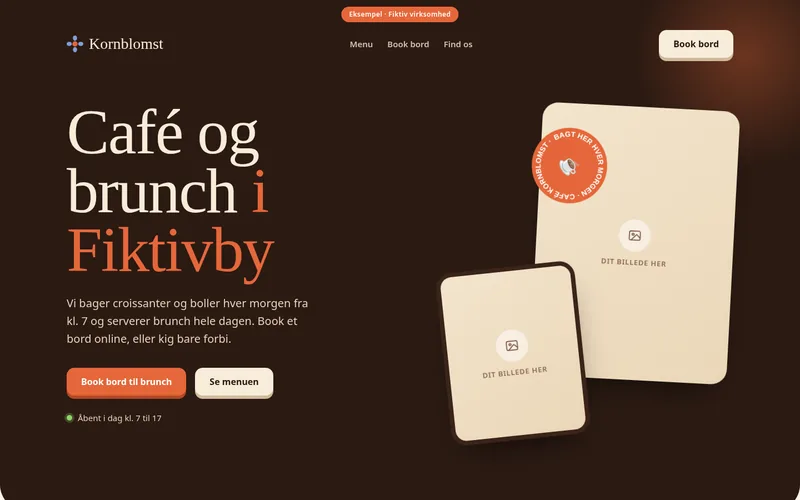
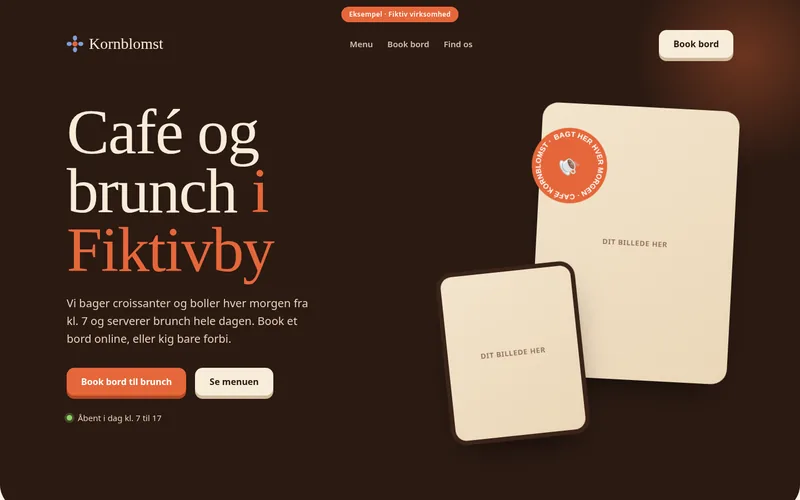
Spejl: kun tekst i pladsholdere, centreret label

Changed region(s): [[0.75, 0.42, 0.8438, 0.54], [0.5938, 0.66, 0.6875, 0.75]]

diff --git a/demoer/fysio/index.html b/demoer/fysio/index.html
@@ -22,7 +22,7 @@ html{scroll-behavior:smooth}
 body{background:var(--bg);color:var(--ink);font:17px/1.6 var(--sans);overflow-x:hidden}
 a{color:inherit}img{display:block;max-width:100%}
 .wrap{width:min(1180px,100% - 40px);margin:0 auto}
-.demo-flag{position:fixed;top:12px;left:50%;transform:translateX(-50%);z-index:60;background:rgba(15,43,38,.88);color:#fff;font:600 12px/1 system-ui,sans-serif;letter-spacing:.04em;padding:8px 14px;border-radius:99px;white-space:nowrap}
+.demo-flag{position:absolute;top:12px;left:50%;transform:translateX(-50%);z-index:60;background:rgba(15,43,38,.88);color:#fff;font:600 12px/1 system-ui,sans-serif;letter-spacing:.04em;padding:8px 14px;border-radius:99px;white-space:nowrap}
 .ed-banner{position:fixed;left:50%;bottom:14px;transform:translateX(-50%);z-index:60;display:flex;align-items:center;gap:12px;background:#16181a;color:#fff;font:400 14px/1.3 system-ui,sans-serif;padding:10px 10px 10px 18px;border-radius:99px;box-shadow:0 14px 40px -12px rgba(0,0,0,.45);width:max-content;max-width:calc(100% - 24px)}
 .ed-banner b{font-weight:600}.ed-banner b i{font-style:normal;color:#ff8a5c}
 .ed-banner a{background:#d4420f;color:#fff;text-decoration:none;padding:8px 14px;border-radius:99px;white-space:nowrap;font-weight:500}
@@ -122,9 +122,7 @@ footer .wrap{display:flex;justify-content:space-between;gap:16px;flex-wrap:wrap}
 
 /* billedpladsholdere: kunden leverer egne billeder */
 .ph{position:relative;display:flex;flex-direction:column;align-items:center;justify-content:center;gap:12px;width:100%;aspect-ratio:var(--ar,3/2);background:linear-gradient(145deg,#e3f0ea,#d3e7de);color:#16604f;text-align:center;overflow:hidden}
-.ph i{display:grid;place-items:center;width:58px;height:58px;border-radius:50%;background:rgba(255,255,255,.6)}
-.ph svg{width:26px;height:26px}
-.ph span{font:600 13px/1.2 var(--sans);letter-spacing:.06em;text-transform:uppercase;opacity:.85}
+.ph span{font:600 13px/1.2 var(--sans);letter-spacing:.06em;padding-left:.06em;text-transform:uppercase;opacity:.85}
 </style>
 <script>document.documentElement.classList.add('js')</script>
 </head>
@@ -147,7 +145,7 @@ footer .wrap{display:flex;justify-content:space-between;gap:16px;flex-wrap:wrap}
    <ul class="checks"><li>Ingen henvisning nødvendig</li><li>Tid inden for få dage</li><li>Aftensåbent</li></ul>
   </div>
   <div class="hero-col">
-   <div class="hero-img"><div class="ph" role="img" aria-label="Pladsholder til billede" style="--ar:1600/1067"><i><svg viewBox="0 0 24 24" fill="none" stroke="currentColor" stroke-width="1.6" stroke-linecap="round" stroke-linejoin="round" aria-hidden="true"><rect x="3" y="4.5" width="18" height="15" rx="2.5"/><circle cx="9" cy="10" r="1.7"/><path d="M20.5 15.5l-4.6-4.6a1.2 1.2 0 0 0-1.7 0L6.5 19"/></svg></i><span>Dit billede her</span></div></div>
+   <div class="hero-img"><div class="ph" role="img" aria-label="Pladsholder til billede" style="--ar:1600/1067"><span>Dit billede her</span></div></div>
    <div class="float f2 rv d2"><span class="ic">📅</span><div><b>Book online</b>Døgnet rundt</div></div>
    <div class="float f1 rv d3"><span class="ic">💬</span><div><b>Gratis telefonsnak</b>Er fysioterapi noget for dig?</div></div>
   </div>
@@ -174,14 +172,14 @@ footer .wrap{display:flex;justify-content:space-between;gap:16px;flex-wrap:wrap}
   <h2 class="rv">Sådan foregår dit forløb</h2>
   <div class="story">
    <div class="sticky" aria-hidden="true">
-    <div class="ph on" role="img" aria-label="Pladsholder til billede" style="--ar:1000/667"><i><svg viewBox="0 0 24 24" fill="none" stroke="currentColor" stroke-width="1.6" stroke-linecap="round" stroke-linejoin="round" aria-hidden="true"><rect x="3" y="4.5" width="18" height="15" rx="2.5"/><circle cx="9" cy="10" r="1.7"/><path d="M20.5 15.5l-4.6-4.6a1.2 1.2 0 0 0-1.7 0L6.5 19"/></svg></i><span>Dit billede her</span></div>
-    <div class="ph" role="img" aria-label="Pladsholder til billede" style="--ar:1000/667"><i><svg viewBox="0 0 24 24" fill="none" stroke="currentColor" stroke-width="1.6" stroke-linecap="round" stroke-linejoin="round" aria-hidden="true"><rect x="3" y="4.5" width="18" height="15" rx="2.5"/><circle cx="9" cy="10" r="1.7"/><path d="M20.5 15.5l-4.6-4.6a1.2 1.2 0 0 0-1.7 0L6.5 19"/></svg></i><span>Dit billede her</span></div>
-    <div class="ph" role="img" aria-label="Pladsholder til billede" style="--ar:900/1349"><i><svg viewBox="0 0 24 24" fill="none" stroke="currentColor" stroke-width="1.6" stroke-linecap="round" stroke-linejoin="round" aria-hidden="true"><rect x="3" y="4.5" width="18" height="15" rx="2.5"/><circle cx="9" cy="10" r="1.7"/><path d="M20.5 15.5l-4.6-4.6a1.2 1.2 0 0 0-1.7 0L6.5 19"/></svg></i><span>Dit billede her</span></div>
+    <div class="ph on" role="img" aria-label="Pladsholder til billede" style="--ar:1000/667"><span>Dit billede her</span></div>
+    <div class="ph" role="img" aria-label="Pladsholder til billede" style="--ar:1000/667"><span>Dit billede her</span></div>
+    <div class="ph" role="img" aria-label="Pladsholder til billede" style="--ar:900/1349"><span>Dit billede her</span></div>
    </div>
    <div class="steps">
-    <div class="step on" data-i="0"><div class="ph m-img" role="img" aria-label="Pladsholder til billede" style="--ar:1000/667"><i><svg viewBox="0 0 24 24" fill="none" stroke="currentColor" stroke-width="1.6" stroke-linecap="round" stroke-linejoin="round" aria-hidden="true"><rect x="3" y="4.5" width="18" height="15" rx="2.5"/><circle cx="9" cy="10" r="1.7"/><path d="M20.5 15.5l-4.6-4.6a1.2 1.2 0 0 0-1.7 0L6.5 19"/></svg></i><span>Dit billede her</span></div><span class="n">01 · Undersøgelse</span><h3>Første konsultation</h3><p>Første gang bruger vi en time på at snakke, undersøge dig og forklare, hvad vi finder.</p></div>
-    <div class="step" data-i="1"><div class="ph m-img" role="img" aria-label="Pladsholder til billede" style="--ar:1000/667"><i><svg viewBox="0 0 24 24" fill="none" stroke="currentColor" stroke-width="1.6" stroke-linecap="round" stroke-linejoin="round" aria-hidden="true"><rect x="3" y="4.5" width="18" height="15" rx="2.5"/><circle cx="9" cy="10" r="1.7"/><path d="M20.5 15.5l-4.6-4.6a1.2 1.2 0 0 0-1.7 0L6.5 19"/></svg></i><span>Dit billede her</span></div><span class="n">02 · Behandling</span><h3>Behandling og øvelser</h3><p>Vi lægger en plan sammen med dig og kombinerer behandling på klinikken med øvelser. Planen justerer vi undervejs.</p></div>
-    <div class="step" data-i="2"><div class="ph m-img" role="img" aria-label="Pladsholder til billede" style="--ar:900/1349"><i><svg viewBox="0 0 24 24" fill="none" stroke="currentColor" stroke-width="1.6" stroke-linecap="round" stroke-linejoin="round" aria-hidden="true"><rect x="3" y="4.5" width="18" height="15" rx="2.5"/><circle cx="9" cy="10" r="1.7"/><path d="M20.5 15.5l-4.6-4.6a1.2 1.2 0 0 0-1.7 0L6.5 19"/></svg></i><span>Dit billede her</span></div><span class="n">03 · Træning hjemme</span><h3>Øvelser til derhjemme</h3><p>Du får et øvelsesprogram i en app, så du kan træne videre derhjemme, når forløbet er slut.</p></div>
+    <div class="step on" data-i="0"><div class="ph m-img" role="img" aria-label="Pladsholder til billede" style="--ar:1000/667"><span>Dit billede her</span></div><span class="n">01 · Undersøgelse</span><h3>Første konsultation</h3><p>Første gang bruger vi en time på at snakke, undersøge dig og forklare, hvad vi finder.</p></div>
+    <div class="step" data-i="1"><div class="ph m-img" role="img" aria-label="Pladsholder til billede" style="--ar:1000/667"><span>Dit billede her</span></div><span class="n">02 · Behandling</span><h3>Behandling og øvelser</h3><p>Vi lægger en plan sammen med dig og kombinerer behandling på klinikken med øvelser. Planen justerer vi undervejs.</p></div>
+    <div class="step" data-i="2"><div class="ph m-img" role="img" aria-label="Pladsholder til billede" style="--ar:900/1349"><span>Dit billede her</span></div><span class="n">03 · Træning hjemme</span><h3>Øvelser til derhjemme</h3><p>Du får et øvelsesprogram i en app, så du kan træne videre derhjemme, når forløbet er slut.</p></div>
    </div>
   </div>
  </section>

diff --git a/demoer/frisor/index.html b/demoer/frisor/index.html
@@ -24,7 +24,7 @@ a{color:inherit}
 img{display:block;max-width:100%}
 .wrap{width:min(1180px,100% - 40px);margin:0 auto}
 /* demo-mærkat */
-.demo-flag{position:fixed;top:12px;left:50%;transform:translateX(-50%);z-index:60;background:rgba(42,28,24,.86);color:#fff;font:500 12px/1 var(--sans);letter-spacing:.04em;padding:8px 14px;border-radius:99px;backdrop-filter:blur(6px);white-space:nowrap}
+.demo-flag{position:absolute;top:12px;left:50%;transform:translateX(-50%);z-index:60;background:rgba(42,28,24,.86);color:#fff;font:500 12px/1 var(--sans);letter-spacing:.04em;padding:8px 14px;border-radius:99px;backdrop-filter:blur(6px);white-space:nowrap}
 .ed-banner{position:fixed;left:50%;bottom:14px;transform:translateX(-50%);z-index:60;display:flex;align-items:center;gap:12px;background:#16181a;color:#fff;font:400 14px/1.3 system-ui,sans-serif;padding:10px 10px 10px 18px;border-radius:99px;box-shadow:0 14px 40px -12px rgba(0,0,0,.45);width:max-content;max-width:calc(100% - 24px)}
 .ed-banner b{font-weight:600}.ed-banner b i{font-style:normal;color:#ff8a5c}
 .ed-banner a{background:#d4420f;color:#fff;text-decoration:none;padding:8px 14px;border-radius:99px;white-space:nowrap;font-weight:500}
@@ -145,10 +145,8 @@ footer .wrap{display:flex;justify-content:space-between;flex-wrap:wrap;gap:16px}
 
 /* billedpladsholdere: kunden leverer egne billeder */
 .ph{position:relative;display:flex;flex-direction:column;align-items:center;justify-content:center;gap:12px;width:100%;aspect-ratio:var(--ar,3/2);background:linear-gradient(145deg,#efe3d8,#e6d5c6);color:#8f5640;text-align:center;overflow:hidden}
-.ph i{display:grid;place-items:center;width:58px;height:58px;border-radius:50%;background:rgba(255,255,255,.55)}
-.ph svg{width:26px;height:26px}
-.ph span{font:600 13px/1.2 var(--sans);letter-spacing:.06em;text-transform:uppercase;opacity:.85}
-.zoom .ph{background:linear-gradient(145deg,#c99c86,#a46e57);color:#fff8f2;justify-content:flex-start;padding-top:12vh}.zoom .ph i{background:rgba(255,255,255,.18)}
+.ph span{font:600 13px/1.2 var(--sans);letter-spacing:.06em;padding-left:.06em;text-transform:uppercase;opacity:.85}
+.zoom .ph{background:linear-gradient(145deg,#c99c86,#a46e57);color:#fff8f2}
 </style>
 <script>document.documentElement.classList.add('js')</script>
 </head>
@@ -173,7 +171,7 @@ footer .wrap{display:flex;justify-content:space-between;flex-wrap:wrap;gap:16px}
    <p class="note">Book online · Gratis konsultation før farve</p>
   </div>
   <div class="hero-col">
-   <div class="hero-img"><div class="ph" role="img" aria-label="Pladsholder til billede" style="--ar:1100/1650" data-parallax="0.12"><i><svg viewBox="0 0 24 24" fill="none" stroke="currentColor" stroke-width="1.6" stroke-linecap="round" stroke-linejoin="round" aria-hidden="true"><rect x="3" y="4.5" width="18" height="15" rx="2.5"/><circle cx="9" cy="10" r="1.7"/><path d="M20.5 15.5l-4.6-4.6a1.2 1.2 0 0 0-1.7 0L6.5 19"/></svg></i><span>Dit billede her</span></div></div>
+   <div class="hero-img"><div class="ph" role="img" aria-label="Pladsholder til billede" style="--ar:1100/1650" data-parallax="0.12"><span>Dit billede her</span></div></div>
    <div class="hero-badge rv d2"><strong>Ledige tider i dag</strong>Se dem direkte i kalenderen</div>
   </div>
  </section>
@@ -188,13 +186,13 @@ footer .wrap{display:flex;justify-content:space-between;flex-wrap:wrap;gap:16px}
   </div>
  </section>
 
- <figure class="zoom"><div class="ph" role="img" aria-label="Pladsholder til billede" style="--ar:1400/914"><i><svg viewBox="0 0 24 24" fill="none" stroke="currentColor" stroke-width="1.6" stroke-linecap="round" stroke-linejoin="round" aria-hidden="true"><rect x="3" y="4.5" width="18" height="15" rx="2.5"/><circle cx="9" cy="10" r="1.7"/><path d="M20.5 15.5l-4.6-4.6a1.2 1.2 0 0 0-1.7 0L6.5 19"/></svg></i><span>Dit billede her</span></div><figcaption>Vores salon på Eksempelvej 12</figcaption></figure>
+ <figure class="zoom"><div class="ph" role="img" aria-label="Pladsholder til billede" style="--ar:1400/914"><span>Dit billede her</span></div><figcaption>Vores salon på Eksempelvej 12</figcaption></figure>
 
  <section id="ydelser" class="wrap svc">
   <div class="stick">
    <h2 class="rv">Behandlinger &amp; priser</h2>
    <p class="rv d1">Faste priser, ingen skjulte tillæg. Usikker på hvad du skal vælge? Book en gratis konsultation, så finder vi ud af det sammen.</p>
-   <figure class="rv d2"><div class="ph" role="img" aria-label="Pladsholder til billede" style="--ar:900/1350"><i><svg viewBox="0 0 24 24" fill="none" stroke="currentColor" stroke-width="1.6" stroke-linecap="round" stroke-linejoin="round" aria-hidden="true"><rect x="3" y="4.5" width="18" height="15" rx="2.5"/><circle cx="9" cy="10" r="1.7"/><path d="M20.5 15.5l-4.6-4.6a1.2 1.2 0 0 0-1.7 0L6.5 19"/></svg></i><span>Dit billede her</span></div></figure>
+   <figure class="rv d2"><div class="ph" role="img" aria-label="Pladsholder til billede" style="--ar:900/1350"><span>Dit billede her</span></div></figure>
   </div>
   <div>
    <div class="menu-group rv">
@@ -230,11 +228,11 @@ footer .wrap{display:flex;justify-content:space-between;flex-wrap:wrap;gap:16px}
  <section id="galleri" class="gallery">
   <div class="wrap"><h2 class="rv">Billeder fra salonen</h2></div>
   <div class="track" data-track>
-   <figure><div class="ph" role="img" aria-label="Pladsholder til billede" style="--ar:900/1350"><i><svg viewBox="0 0 24 24" fill="none" stroke="currentColor" stroke-width="1.6" stroke-linecap="round" stroke-linejoin="round" aria-hidden="true"><rect x="3" y="4.5" width="18" height="15" rx="2.5"/><circle cx="9" cy="10" r="1.7"/><path d="M20.5 15.5l-4.6-4.6a1.2 1.2 0 0 0-1.7 0L6.5 19"/></svg></i><span>Dit billede her</span></div></figure>
-   <figure class="wide"><div class="ph" role="img" aria-label="Pladsholder til billede" style="--ar:1200/669"><i><svg viewBox="0 0 24 24" fill="none" stroke="currentColor" stroke-width="1.6" stroke-linecap="round" stroke-linejoin="round" aria-hidden="true"><rect x="3" y="4.5" width="18" height="15" rx="2.5"/><circle cx="9" cy="10" r="1.7"/><path d="M20.5 15.5l-4.6-4.6a1.2 1.2 0 0 0-1.7 0L6.5 19"/></svg></i><span>Dit billede her</span></div></figure>
+   <figure><div class="ph" role="img" aria-label="Pladsholder til billede" style="--ar:900/1350"><span>Dit billede her</span></div></figure>
+   <figure class="wide"><div class="ph" role="img" aria-label="Pladsholder til billede" style="--ar:1200/669"><span>Dit billede her</span></div></figure>
    <figure class="txt"><p>Vi glæder os til at se dig i salonen.</p></figure>
-   <figure><div class="ph" role="img" aria-label="Pladsholder til billede" style="--ar:900/1350"><i><svg viewBox="0 0 24 24" fill="none" stroke="currentColor" stroke-width="1.6" stroke-linecap="round" stroke-linejoin="round" aria-hidden="true"><rect x="3" y="4.5" width="18" height="15" rx="2.5"/><circle cx="9" cy="10" r="1.7"/><path d="M20.5 15.5l-4.6-4.6a1.2 1.2 0 0 0-1.7 0L6.5 19"/></svg></i><span>Dit billede her</span></div></figure>
-   <figure class="wide"><div class="ph" role="img" aria-label="Pladsholder til billede" style="--ar:1400/914"><i><svg viewBox="0 0 24 24" fill="none" stroke="currentColor" stroke-width="1.6" stroke-linecap="round" stroke-linejoin="round" aria-hidden="true"><rect x="3" y="4.5" width="18" height="15" rx="2.5"/><circle cx="9" cy="10" r="1.7"/><path d="M20.5 15.5l-4.6-4.6a1.2 1.2 0 0 0-1.7 0L6.5 19"/></svg></i><span>Dit billede her</span></div></figure>
+   <figure><div class="ph" role="img" aria-label="Pladsholder til billede" style="--ar:900/1350"><span>Dit billede her</span></div></figure>
+   <figure class="wide"><div class="ph" role="img" aria-label="Pladsholder til billede" style="--ar:1400/914"><span>Dit billede her</span></div></figure>
   </div>
  </section>
 

diff --git a/demoer/tomrer/index.html b/demoer/tomrer/index.html
@@ -22,7 +22,7 @@ html{scroll-behavior:smooth}
 body{background:var(--paper);color:var(--ink);font:17px/1.55 var(--sans);overflow-x:hidden}
 a{color:inherit}img{display:block;max-width:100%}
 .wrap{width:min(1240px,100% - 40px);margin:0 auto}
-.demo-flag{position:fixed;top:12px;left:50%;transform:translateX(-50%);z-index:60;background:rgba(27,29,31,.9);color:#fff;font:600 12px/1 system-ui,sans-serif;letter-spacing:.04em;padding:8px 14px;border-radius:99px;white-space:nowrap}
+.demo-flag{position:absolute;top:12px;left:50%;transform:translateX(-50%);z-index:60;background:rgba(27,29,31,.9);color:#fff;font:600 12px/1 system-ui,sans-serif;letter-spacing:.04em;padding:8px 14px;border-radius:99px;white-space:nowrap}
 .ed-banner{position:fixed;left:50%;bottom:14px;transform:translateX(-50%);z-index:60;display:flex;align-items:center;gap:12px;background:#16181a;color:#fff;font:400 14px/1.3 system-ui,sans-serif;padding:10px 10px 10px 18px;border-radius:99px;box-shadow:0 14px 40px -12px rgba(0,0,0,.45);width:max-content;max-width:calc(100% - 24px);border:1px solid rgba(255,255,255,.12)}
 .ed-banner b{font-weight:600}.ed-banner b i{font-style:normal;color:#ff8a5c}
 .ed-banner a{background:#d4420f;color:#fff;text-decoration:none;padding:8px 14px;border-radius:99px;white-space:nowrap;font-weight:500}
@@ -40,7 +40,7 @@ header{background:var(--ink);color:#fff;position:sticky;top:0;z-index:30}
 .btn.line{background:transparent;color:#fff;box-shadow:inset 0 0 0 2px rgba(255,255,255,.4)}
 .btn.line:hover{box-shadow:inset 0 0 0 2px var(--y);color:var(--y)}
 .hero{position:relative;background:var(--ink);color:#fff;overflow:hidden}
-.hero .ph{position:absolute;inset:0;width:100%;height:100%;aspect-ratio:auto;background:linear-gradient(145deg,#3a3d40,#2e3134);color:#e9eaec;align-items:flex-end;padding-right:9%}
+.hero .ph{position:absolute;inset:0;width:100%;height:100%;aspect-ratio:auto;background:linear-gradient(145deg,#3a3d40,#2e3134);color:#e9eaec;padding-left:50%}
 .hero::after{content:"";position:absolute;inset:0;background:linear-gradient(90deg,rgba(27,29,31,.95) 0%,rgba(27,29,31,.75) 50%,rgba(27,29,31,0) 72%)}
 .hero .wrap{position:relative;z-index:1;padding:130px 0 120px}
 .hero h1{font:700 clamp(56px,9vw,136px)/.88 var(--cond);text-transform:uppercase;letter-spacing:-.01em;max-width:11ch}
@@ -114,10 +114,8 @@ footer .wrap{display:flex;justify-content:space-between;gap:16px;flex-wrap:wrap}
 
 /* billedpladsholdere: kunden leverer egne billeder */
 .ph{position:relative;display:flex;flex-direction:column;align-items:center;justify-content:center;gap:12px;width:100%;aspect-ratio:var(--ar,3/2);background:linear-gradient(145deg,#efe4d6,#e4d3bd);color:#8a5a2b;text-align:center;overflow:hidden}
-.ph i{display:grid;place-items:center;width:58px;height:58px;border-radius:50%;background:rgba(255,255,255,.55)}
-.ph svg{width:26px;height:26px}
-.ph span{font:600 13px/1.2 var(--sans);letter-spacing:.06em;text-transform:uppercase;opacity:.85}
-@media (max-width:760px){.hero .ph i,.hero .ph span{display:none}}
+.ph span{font:600 13px/1.2 var(--sans);letter-spacing:.06em;padding-left:.06em;text-transform:uppercase;opacity:.85}
+@media (max-width:760px){.hero .ph span{display:none}}
 </style>
 <script>document.documentElement.classList.add('js')</script>
 </head>
@@ -132,7 +130,7 @@ footer .wrap{display:flex;justify-content:space-between;gap:16px;flex-wrap:wrap}
 
 <main>
  <section class="hero">
-  <div class="ph" role="img" aria-label="Pladsholder til billede" style="--ar:1600/1067"><i><svg viewBox="0 0 24 24" fill="none" stroke="currentColor" stroke-width="1.6" stroke-linecap="round" stroke-linejoin="round" aria-hidden="true"><rect x="3" y="4.5" width="18" height="15" rx="2.5"/><circle cx="9" cy="10" r="1.7"/><path d="M20.5 15.5l-4.6-4.6a1.2 1.2 0 0 0-1.7 0L6.5 19"/></svg></i><span>Dit billede her</span></div>
+  <div class="ph" role="img" aria-label="Pladsholder til billede" style="--ar:1600/1067"><span>Dit billede her</span></div>
   <div class="wrap">
    <span class="kick">Kvist &amp; Søn · Fiktivby og omegn</span>
    <h1>Tømrer og snedker <span>i Fiktivby</span></h1>
@@ -155,7 +153,7 @@ footer .wrap{display:flex;justify-content:space-between;gap:16px;flex-wrap:wrap}
  </section>
 
  <section id="proces" class="split">
-  <figure><div class="ph" role="img" aria-label="Pladsholder til billede" style="--ar:1200/800"><i><svg viewBox="0 0 24 24" fill="none" stroke="currentColor" stroke-width="1.6" stroke-linecap="round" stroke-linejoin="round" aria-hidden="true"><rect x="3" y="4.5" width="18" height="15" rx="2.5"/><circle cx="9" cy="10" r="1.7"/><path d="M20.5 15.5l-4.6-4.6a1.2 1.2 0 0 0-1.7 0L6.5 19"/></svg></i><span>Dit billede her</span></div></figure>
+  <figure><div class="ph" role="img" aria-label="Pladsholder til billede" style="--ar:1200/800"><span>Dit billede her</span></div></figure>
   <div class="txt">
    <span class="kick">Sådan arbejder vi</span>
    <h2 class="rv">Fra første opkald til <span>færdig opgave</span></h2>
@@ -170,9 +168,9 @@ footer .wrap{display:flex;justify-content:space-between;gap:16px;flex-wrap:wrap}
  <section id="projekter" class="wrap work">
   <div class="sec-h"><div><span class="kick">Projekter</span><h2 class="rv">Opgaver, vi<br>har lavet</h2></div><p class="rv d1">Et udvalg af køkkener, gulve og snedkerarbejde, vi har lavet for kunder i området.</p></div>
   <div class="photos rv">
-   <figure><div class="ph" role="img" aria-label="Pladsholder til billede" style="--ar:1400/934"><i><svg viewBox="0 0 24 24" fill="none" stroke="currentColor" stroke-width="1.6" stroke-linecap="round" stroke-linejoin="round" aria-hidden="true"><rect x="3" y="4.5" width="18" height="15" rx="2.5"/><circle cx="9" cy="10" r="1.7"/><path d="M20.5 15.5l-4.6-4.6a1.2 1.2 0 0 0-1.7 0L6.5 19"/></svg></i><span>Dit billede her</span></div><figcaption><small>Køkken ·</small> Eksempelbillede</figcaption></figure>
-   <figure><div class="ph" role="img" aria-label="Pladsholder til billede" style="--ar:1200/791"><i><svg viewBox="0 0 24 24" fill="none" stroke="currentColor" stroke-width="1.6" stroke-linecap="round" stroke-linejoin="round" aria-hidden="true"><rect x="3" y="4.5" width="18" height="15" rx="2.5"/><circle cx="9" cy="10" r="1.7"/><path d="M20.5 15.5l-4.6-4.6a1.2 1.2 0 0 0-1.7 0L6.5 19"/></svg></i><span>Dit billede her</span></div><figcaption><small>Alrum ·</small> Eksempelbillede</figcaption></figure>
-   <figure><div class="ph" role="img" aria-label="Pladsholder til billede" style="--ar:1600/1067"><i><svg viewBox="0 0 24 24" fill="none" stroke="currentColor" stroke-width="1.6" stroke-linecap="round" stroke-linejoin="round" aria-hidden="true"><rect x="3" y="4.5" width="18" height="15" rx="2.5"/><circle cx="9" cy="10" r="1.7"/><path d="M20.5 15.5l-4.6-4.6a1.2 1.2 0 0 0-1.7 0L6.5 19"/></svg></i><span>Dit billede her</span></div><figcaption><small>Snedkeri ·</small> Eksempelbillede</figcaption></figure>
+   <figure><div class="ph" role="img" aria-label="Pladsholder til billede" style="--ar:1400/934"><span>Dit billede her</span></div><figcaption><small>Køkken ·</small> Eksempelbillede</figcaption></figure>
+   <figure><div class="ph" role="img" aria-label="Pladsholder til billede" style="--ar:1200/791"><span>Dit billede her</span></div><figcaption><small>Alrum ·</small> Eksempelbillede</figcaption></figure>
+   <figure><div class="ph" role="img" aria-label="Pladsholder til billede" style="--ar:1600/1067"><span>Dit billede her</span></div><figcaption><small>Snedkeri ·</small> Eksempelbillede</figcaption></figure>
   </div>
   <p class="note">Her kommer dine egne billeder af færdige opgaver.</p>
  </section>

diff --git a/demoer/cafe/index.html b/demoer/cafe/index.html
@@ -22,7 +22,7 @@ html{scroll-behavior:smooth}
 body{background:var(--paper);color:var(--dark);font:17px/1.6 var(--sans);overflow-x:hidden}
 a{color:inherit}img{display:block;max-width:100%}
 .wrap{width:min(1200px,100% - 40px);margin:0 auto}
-.demo-flag{position:fixed;top:12px;left:50%;transform:translateX(-50%);z-index:60;background:#e5673a;color:#fff;font:600 12px/1 system-ui,sans-serif;letter-spacing:.04em;padding:8px 14px;border-radius:99px;white-space:nowrap}
+.demo-flag{position:absolute;top:12px;left:50%;transform:translateX(-50%);z-index:60;background:#e5673a;color:#fff;font:600 12px/1 system-ui,sans-serif;letter-spacing:.04em;padding:8px 14px;border-radius:99px;white-space:nowrap}
 .ed-banner{position:fixed;left:50%;bottom:14px;transform:translateX(-50%);z-index:60;display:flex;align-items:center;gap:12px;background:#16181a;color:#fff;font:400 14px/1.3 system-ui,sans-serif;padding:10px 10px 10px 18px;border-radius:99px;box-shadow:0 14px 40px -12px rgba(0,0,0,.45);width:max-content;max-width:calc(100% - 24px)}
 .ed-banner b{font-weight:600}.ed-banner b i{font-style:normal;color:#ff8a5c}
 .ed-banner a{background:#d4420f;color:#fff;text-decoration:none;padding:8px 14px;border-radius:99px;white-space:nowrap;font-weight:500}
@@ -124,10 +124,8 @@ footer{padding:30px 0 110px;color:var(--mute);font-size:14px}
 
 /* billedpladsholdere: kunden leverer egne billeder */
 .ph{position:relative;display:flex;flex-direction:column;align-items:center;justify-content:center;gap:12px;width:100%;aspect-ratio:var(--ar,3/2);background:linear-gradient(145deg,#f3e4cc,#ead6b8);color:#7a5440;text-align:center;overflow:hidden}
-.ph i{display:grid;place-items:center;width:58px;height:58px;border-radius:50%;background:rgba(255,255,255,.5)}
-.ph svg{width:26px;height:26px}
-.ph span{font:600 13px/1.2 var(--sans);letter-spacing:.06em;text-transform:uppercase;opacity:.85}
-.wide .ph{background:linear-gradient(145deg,#c98a5e,#9c5a39);color:#fbf5ea;justify-content:flex-start;padding-top:14vh}.wide .ph i{background:rgba(255,255,255,.18)}
+.ph span{font:600 13px/1.2 var(--sans);letter-spacing:.06em;padding-left:.06em;text-transform:uppercase;opacity:.85}
+.wide .ph{background:linear-gradient(145deg,#c98a5e,#9c5a39);color:#fbf5ea;padding-bottom:21vh}
 </style>
 <script>document.documentElement.classList.add('js')</script>
 </head>
@@ -149,8 +147,8 @@ footer{padding:30px 0 110px;color:var(--mute);font-size:14px}
   </div>
   <div class="stack">
    <svg class="stamp" viewBox="0 0 140 140" aria-hidden="true"><defs><path id="c" d="M70,70 m-52,0 a52,52 0 1,1 104,0 a52,52 0 1,1 -104,0"/></defs><circle cx="70" cy="70" r="68" fill="#e5673a"/><text font-family="Trebuchet MS,sans-serif" font-weight="700" font-size="13" fill="#fff"><textPath href="#c" textLength="320" lengthAdjust="spacing">BAGT HER HVER MORGEN · CAFÉ KORNBLOMST ·</textPath></text><text x="70" y="80" text-anchor="middle" font-size="30" fill="#fff">☕</text></svg>
-   <figure class="a" data-float="-0.06"><div class="ph" role="img" aria-label="Pladsholder til billede" style="--ar:1100/1649"><i><svg viewBox="0 0 24 24" fill="none" stroke="currentColor" stroke-width="1.6" stroke-linecap="round" stroke-linejoin="round" aria-hidden="true"><rect x="3" y="4.5" width="18" height="15" rx="2.5"/><circle cx="9" cy="10" r="1.7"/><path d="M20.5 15.5l-4.6-4.6a1.2 1.2 0 0 0-1.7 0L6.5 19"/></svg></i><span>Dit billede her</span></div></figure>
-   <figure class="b" data-float="0.08"><div class="ph" role="img" aria-label="Pladsholder til billede" style="--ar:1400/934"><i><svg viewBox="0 0 24 24" fill="none" stroke="currentColor" stroke-width="1.6" stroke-linecap="round" stroke-linejoin="round" aria-hidden="true"><rect x="3" y="4.5" width="18" height="15" rx="2.5"/><circle cx="9" cy="10" r="1.7"/><path d="M20.5 15.5l-4.6-4.6a1.2 1.2 0 0 0-1.7 0L6.5 19"/></svg></i><span>Dit billede her</span></div></figure>
+   <figure class="a" data-float="-0.06"><div class="ph" role="img" aria-label="Pladsholder til billede" style="--ar:1100/1649"><span>Dit billede her</span></div></figure>
+   <figure class="b" data-float="0.08"><div class="ph" role="img" aria-label="Pladsholder til billede" style="--ar:1400/934"><span>Dit billede her</span></div></figure>
   </div>
  </div>
 </section>
@@ -194,21 +192,21 @@ footer{padding:30px 0 110px;color:var(--mute);font-size:14px}
  </section>
 
  <section class="wrap duo">
-  <figure class="slide-l" data-slide="-1"><div class="ph" role="img" aria-label="Pladsholder til billede" style="--ar:900/1200"><i><svg viewBox="0 0 24 24" fill="none" stroke="currentColor" stroke-width="1.6" stroke-linecap="round" stroke-linejoin="round" aria-hidden="true"><rect x="3" y="4.5" width="18" height="15" rx="2.5"/><circle cx="9" cy="10" r="1.7"/><path d="M20.5 15.5l-4.6-4.6a1.2 1.2 0 0 0-1.7 0L6.5 19"/></svg></i><span>Dit billede her</span></div></figure>
+  <figure class="slide-l" data-slide="-1"><div class="ph" role="img" aria-label="Pladsholder til billede" style="--ar:900/1200"><span>Dit billede her</span></div></figure>
   <div class="txt">
    <h2 class="rv">Kom forbi til en kop kaffe</h2>
    <p class="rv d1">Mange af vores gæster kommer for at mødes med venner, arbejde en times tid eller læse avisen. Du er velkommen, også hvis du bare skal have en kop kaffe med.</p>
   </div>
  </section>
 
- <div class="wide"><div class="ph" role="img" aria-label="Pladsholder til billede" style="--ar:1400/934"><i><svg viewBox="0 0 24 24" fill="none" stroke="currentColor" stroke-width="1.6" stroke-linecap="round" stroke-linejoin="round" aria-hidden="true"><rect x="3" y="4.5" width="18" height="15" rx="2.5"/><circle cx="9" cy="10" r="1.7"/><path d="M20.5 15.5l-4.6-4.6a1.2 1.2 0 0 0-1.7 0L6.5 19"/></svg></i><span>Dit billede her</span></div><div class="over"><p>Croissanterne kommer ud af ovnen kl. 7.</p></div></div>
+ <div class="wide"><div class="ph" role="img" aria-label="Pladsholder til billede" style="--ar:1400/934"><span>Dit billede her</span></div><div class="over"><p>Croissanterne kommer ud af ovnen kl. 7.</p></div></div>
 
  <section class="wrap duo">
   <div class="txt">
    <h2 class="rv">Brunch for grupper</h2>
    <p class="rv d1">Vi dækker gerne op til fødselsdage, barselsgrupper og andre selskaber på op til 12 personer. Book bordet online, så står det klar, når I kommer.</p>
   </div>
-  <figure class="slide-r" data-slide="1"><div class="ph" role="img" aria-label="Pladsholder til billede" style="--ar:900/1200"><i><svg viewBox="0 0 24 24" fill="none" stroke="currentColor" stroke-width="1.6" stroke-linecap="round" stroke-linejoin="round" aria-hidden="true"><rect x="3" y="4.5" width="18" height="15" rx="2.5"/><circle cx="9" cy="10" r="1.7"/><path d="M20.5 15.5l-4.6-4.6a1.2 1.2 0 0 0-1.7 0L6.5 19"/></svg></i><span>Dit billede her</span></div></figure>
+  <figure class="slide-r" data-slide="1"><div class="ph" role="img" aria-label="Pladsholder til billede" style="--ar:900/1200"><span>Dit billede her</span></div></figure>
  </section>
 
  <section id="bord" class="table">

diff --git a/index.html b/index.html
@@ -301,28 +301,28 @@ footer.foot a:hover{color:#fff}
   </div>
   <div class="demos">
    <article class="demo rv">
-    <a class="shot" href="demoer/frisor/" tabindex="-1" aria-hidden="true"><img src="demoer/thumbs/frisor.webp?v=2" alt="Demo af hjemmeside til frisør" width="800" height="500" loading="lazy" decoding="async"></a>
+    <a class="shot" href="demoer/frisor/" tabindex="-1" aria-hidden="true"><img src="demoer/thumbs/frisor.webp?v=3" alt="Demo af hjemmeside til frisør" width="800" height="500" loading="lazy" decoding="async"></a>
     <div class="meta"><span>Frisørsalon</span></div>
     <h3>Saks &amp; Sølv</h3>
     <p>Booking direkte fra forsiden.</p>
     <a class="pill light" href="demoer/frisor/" aria-label="Se Frisørsalon-demoen">Se demo <span class="plus" aria-hidden="true">→</span></a>
    </article>
    <article class="demo rv d1">
-    <a class="shot" href="demoer/cafe/" tabindex="-1" aria-hidden="true"><img src="demoer/thumbs/cafe.webp?v=2" alt="Demo af hjemmeside til café" width="800" height="500" loading="lazy" decoding="async"></a>
+    <a class="shot" href="demoer/cafe/" tabindex="-1" aria-hidden="true"><img src="demoer/thumbs/cafe.webp?v=3" alt="Demo af hjemmeside til café" width="800" height="500" loading="lazy" decoding="async"></a>
     <div class="meta"><span>Café &amp; brunch</span></div>
     <h3>Café Kornblomst</h3>
     <p>Menukort og bordbooking.</p>
     <a class="pill light" href="demoer/cafe/" aria-label="Se café-demoen">Se demo <span class="plus" aria-hidden="true">→</span></a>
    </article>
    <article class="demo rv">
-    <a class="shot" href="demoer/tomrer/" tabindex="-1" aria-hidden="true"><img src="demoer/thumbs/tomrer.webp?v=2" alt="Demo af hjemmeside til tømrer" width="800" height="500" loading="lazy" decoding="async"></a>
+    <a class="shot" href="demoer/tomrer/" tabindex="-1" aria-hidden="true"><img src="demoer/thumbs/tomrer.webp?v=3" alt="Demo af hjemmeside til tømrer" width="800" height="500" loading="lazy" decoding="async"></a>
     <div class="meta"><span>Tømrer &amp; håndværk</span></div>
     <h3>Kvist &amp; Søn</h3>
     <p>Fast pris og nem tilbudsformular.</p>
     <a class="pill light" href="demoer/tomrer/" aria-label="Se tømrer-demoen">Se demo <span class="plus" aria-hidden="true">→</span></a>
    </article>
    <article class="demo rv d1">
-    <a class="shot" href="demoer/fysio/" tabindex="-1" aria-hidden="true"><img src="demoer/thumbs/fysio.webp?v=2" alt="Demo af hjemmeside til fysioterapeut" width="800" height="500" loading="lazy" decoding="async"></a>
+    <a class="shot" href="demoer/fysio/" tabindex="-1" aria-hidden="true"><img src="demoer/thumbs/fysio.webp?v=3" alt="Demo af hjemmeside til fysioterapeut" width="800" height="500" loading="lazy" decoding="async"></a>
     <div class="meta"><span>Fysioterapi &amp; klinik</span></div>
     <h3>Klinik Kerne</h3>
     <p>Behandlinger, priser og nem booking.</p>
